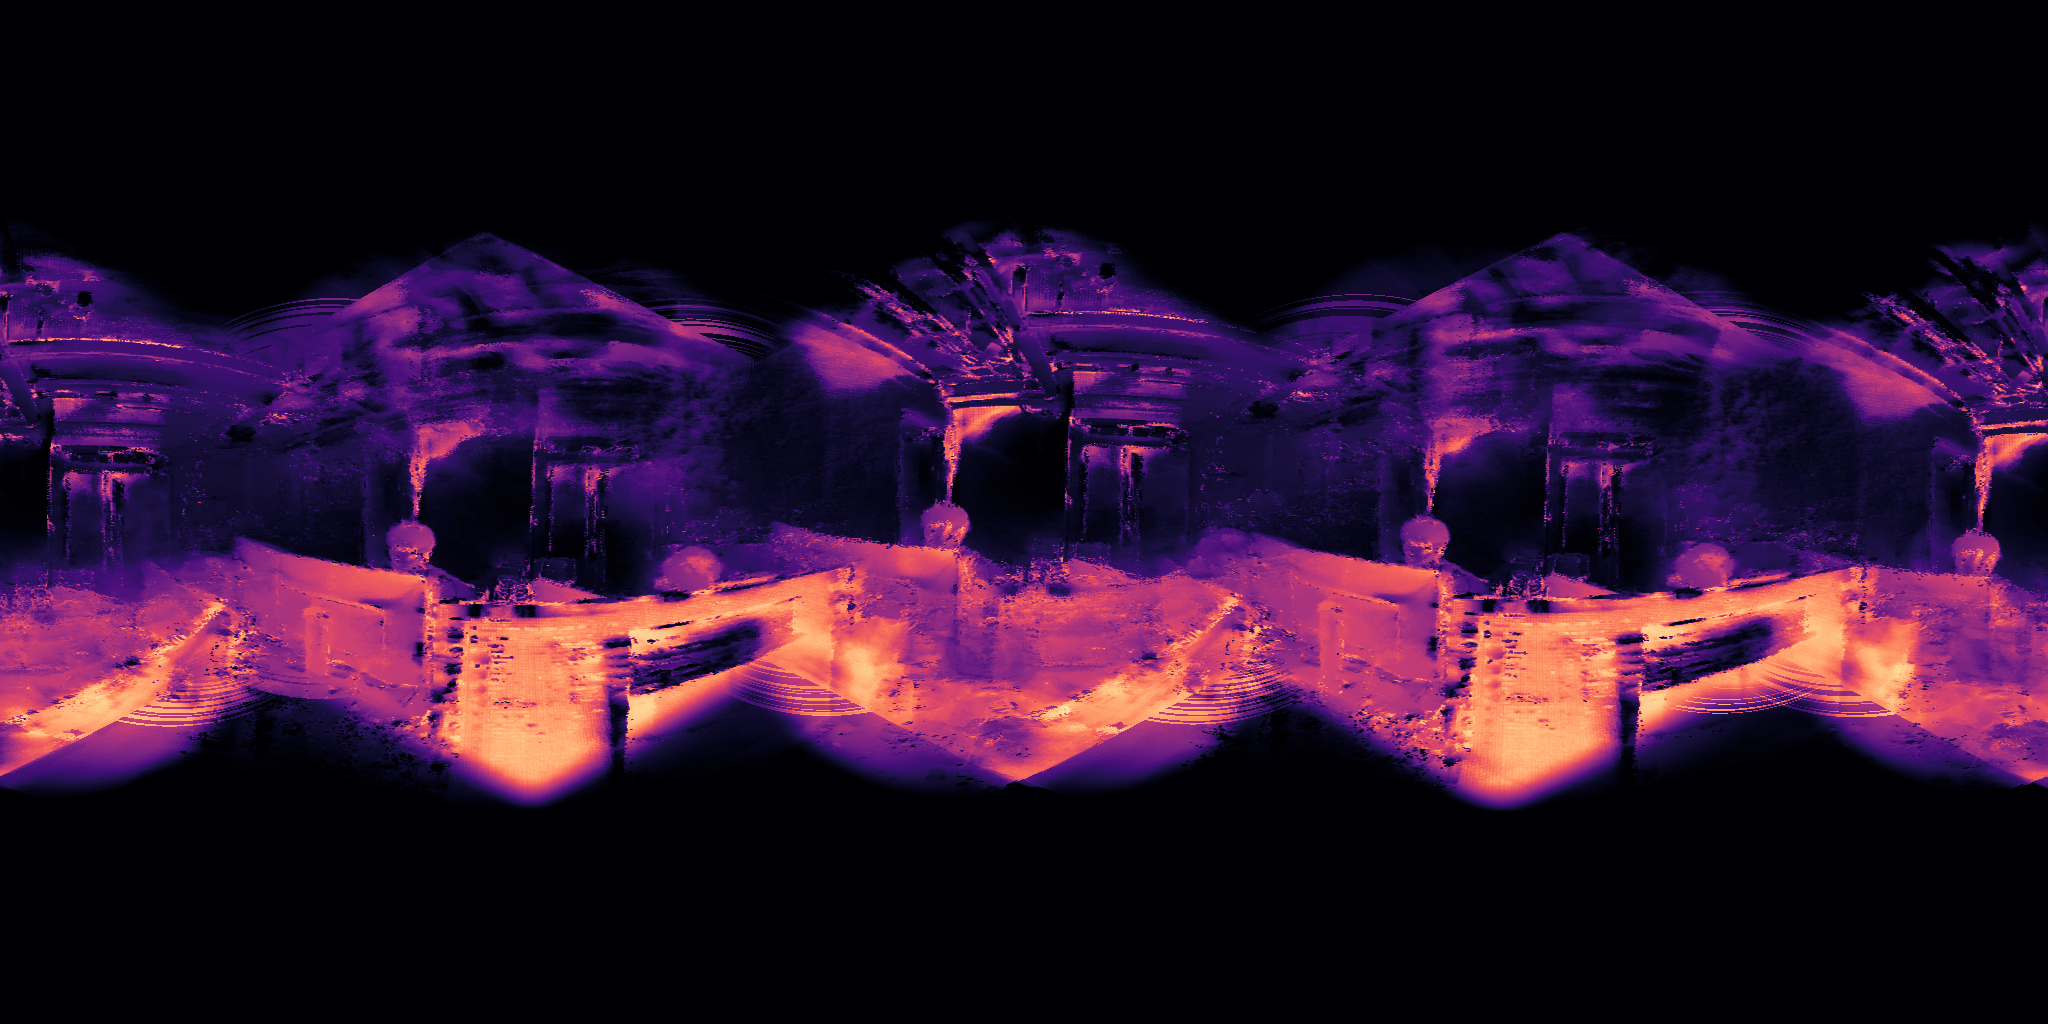
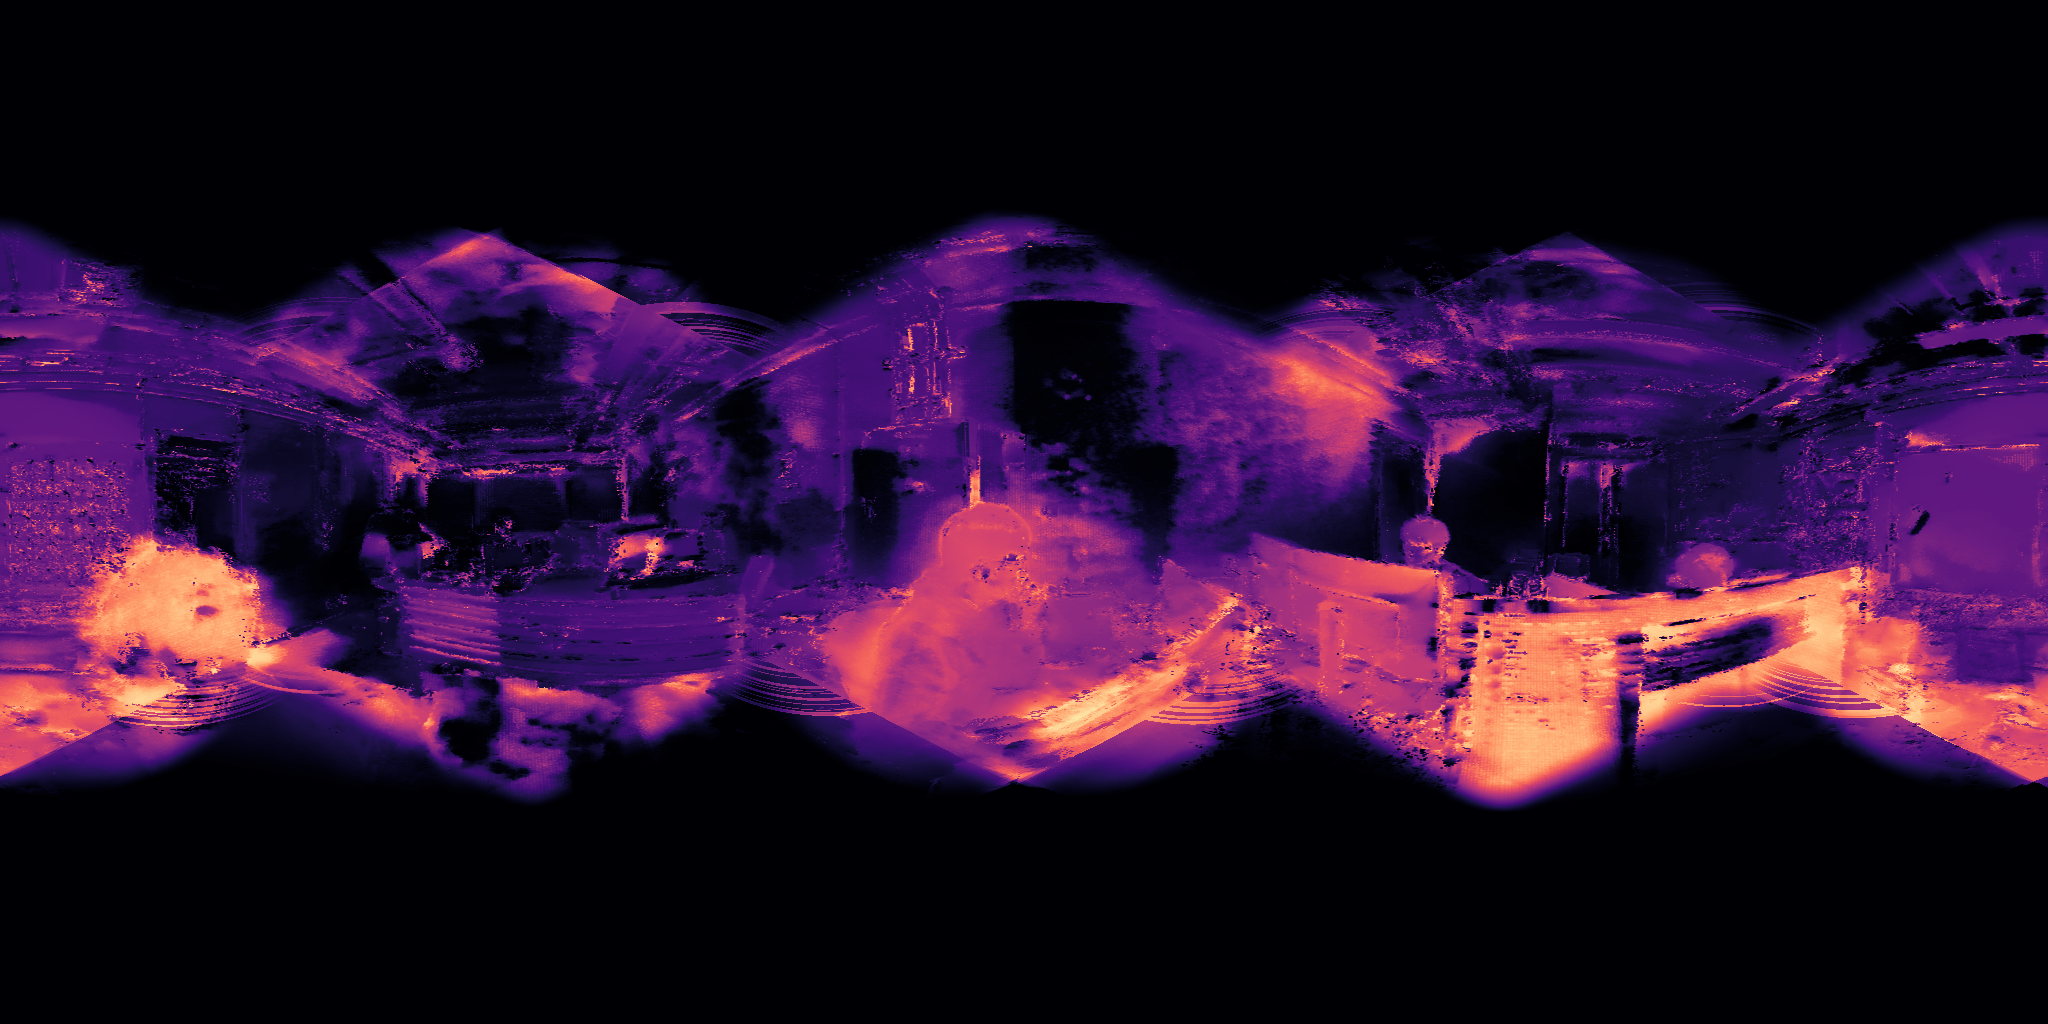
Update depth estimation logic: improve in-place modifications, enhance camera selection, and add debug outputs for distance maps

diff --git a/ros2_ws/src/my_stereo_pkg/src/core/depth_estimation.cpp b/ros2_ws/src/my_stereo_pkg/src/core/depth_estimation.cpp
@@ -133,7 +133,9 @@ std::pair<at::Tensor, at::Tensor> RGBDEstimator::unproject(
     point = (numerator / denominator2) * point;
     
     // point[..., 2] -= xi
-    point.index_put_({"...", 2}, point.index({"...", 2}) - xi);
+    // Use select to ensure correct in-place modification
+    auto point_z = point.select(-1, 2);
+    point_z.sub_(xi);
     
     // valid = (1 - (2*alpha - 1)*r2 >= 0)
     auto valid = (1.0f - two_alpha_minus_1 * r2 >= 0.0f).squeeze(-1);
@@ -244,14 +246,17 @@ void RGBDEstimator::select_camera(const std::vector<at::Tensor>& masks)
         // Initialize with invalid camera index (-1)
         auto selected_camera = -at::ones({1, rows, cols}, 
                                          at::TensorOptions().dtype(at::kInt).device(device_));
-        auto max_displacement = at::ones({1, rows, cols},
-                                         at::TensorOptions().dtype(at::kFloat).device(device_));
+        // Initialize max_displacement to -1.0 to ensure first valid result is selected
+        auto max_displacement = -at::ones({1, rows, cols},
+                                          at::TensorOptions().dtype(at::kFloat).device(device_));
         
         // Create pixel grid
+        // Python: meshgrid([v, u], indexing='ij') then stack([v, u])
+        // C++: meshgrid({v, u}, "ij") gives grid[0]=v, grid[1]=u, then stack({u, v})
         auto u = at::arange(0, cols, at::TensorOptions().dtype(at::kFloat).device(device_));
         auto v = at::arange(0, rows, at::TensorOptions().dtype(at::kFloat).device(device_));
-        auto grid = at::meshgrid({v, u}, "ij");
-        auto uv = at::stack({grid[1], grid[0]}, /*dim=*/-1).unsqueeze(0);  // [1, H, W, 2]
+        auto grid = at::meshgrid({v, u}, "ij");  // grid[0]=v (rows), grid[1]=u (cols)
+        auto uv = at::stack({grid[1], grid[0]}, /*dim=*/-1).unsqueeze(0);  // [1, H, W, 2] as (u, v)
         
         // Unproject to unit vectors
         auto unproject_result = unproject(uv.reshape({-1, 2}), reference_calibration);
@@ -271,9 +276,10 @@ void RGBDEstimator::select_camera(const std::vector<at::Tensor>& masks)
             auto rt = at::matmul(at::inverse(calibration.rt), reference_calibration.rt);
             
             // Convert to homogeneous coordinates and transform
+            // PyTorch matmul handles broadcasting: [1, H, W, 4] @ [4, 4] -> [1, H, W, 4]
             auto ones = at::ones_like(pt_near.index({"...", at::indexing::Slice(at::indexing::None, 1)}));
-            auto pt_near_homo = at::cat({pt_near, ones}, /*dim=*/-1);
-            auto pt_far_homo = at::cat({pt_far, ones}, /*dim=*/-1);
+            auto pt_near_homo = at::cat({pt_near, ones}, /*dim=*/-1);  // [1, H, W, 4]
+            auto pt_far_homo = at::cat({pt_far, ones}, /*dim=*/-1);    // [1, H, W, 4]
             
             pt_near_homo = at::matmul(pt_near_homo, rt.t());
             pt_far_homo = at::matmul(pt_far_homo, rt.t());
@@ -300,7 +306,8 @@ void RGBDEstimator::select_camera(const std::vector<at::Tensor>& masks)
             // Calculate displacement
             auto displacement = at::norm(uv_near - uv_far, 2, /*dim=*/-1);
             
-            // Normalize UV coordinates to [-1, 1] for grid_sample
+            // Normalize UV coordinates to [-1, 1] for grid_sample (align_corners=False)
+            // Python: ((uv + 0.5) / [cols, rows]) * 2 - 1
             auto resolution_tensor = at::tensor({static_cast<float>(cols), static_cast<float>(rows)},
                                                at::TensorOptions().dtype(at::kFloat).device(device_));
             uv_near = ((uv_near + 0.5f) / resolution_tensor) * 2.0f - 1.0f;
@@ -351,10 +358,12 @@ at::Tensor RGBDEstimator::estimate_fisheye_distance(
     int rows = matching_resolution_.second;
     
     // Create pixel grid and unproject to unit vectors
+    // Python: meshgrid([v, u], indexing='ij') then stack([v, u])
+    // C++: meshgrid({v, u}, "ij") gives grid[0]=v, grid[1]=u, then stack({u, v})
     auto u = at::arange(0, cols, at::TensorOptions().dtype(at::kFloat).device(device_));
     auto v = at::arange(0, rows, at::TensorOptions().dtype(at::kFloat).device(device_));
-    auto grid = at::meshgrid({v, u}, "ij");
-    auto uv = at::stack({grid[1], grid[0]}, /*dim=*/-1).unsqueeze(0);
+    auto grid = at::meshgrid({v, u}, "ij");  // grid[0]=v (rows), grid[1]=u (cols)
+    auto uv = at::stack({grid[1], grid[0]}, /*dim=*/-1).unsqueeze(0);  // [1, H, W, 2] as (u, v)
     
     auto unproject_result = unproject(uv.reshape({-1, 2}), reference_calibration);
     auto pt_unit = unproject_result.first.reshape({1, rows, cols, 3});
@@ -374,6 +383,7 @@ at::Tensor RGBDEstimator::estimate_fisheye_distance(
         // Transform points to matched camera coordinate system
         auto rt = at::matmul(at::inverse(calibration.rt), reference_calibration.rt);
         auto ones = at::ones_like(point_volume.index({"...", at::indexing::Slice(at::indexing::None, 1)}));
+        // PyTorch matmul handles broadcasting: [candidate_count, H, W, 4] @ [4, 4] -> [candidate_count, H, W, 4]
         auto point_volume_in_cam = at::matmul(
             at::cat({point_volume, ones}, /*dim=*/-1), rt.t());
         
@@ -383,7 +393,9 @@ at::Tensor RGBDEstimator::estimate_fisheye_distance(
             calibration);
         auto uv_proj = project_result.first.reshape({candidate_count_, rows, cols, 2});
         
-        // Normalize to [-1, 1] for grid_sample
+        // Normalize to [-1, 1] for grid_sample (align_corners=False)
+        // Python: ((uv + 0.5) / [cols, rows]) * 2 - 1
+        // This maps pixel [0, 0] center to [-1 + 1/res, -1 + 1/res]
         auto resolution_tensor = at::tensor({static_cast<float>(cols), static_cast<float>(rows)},
                                            at::TensorOptions().dtype(at::kFloat).device(device_));
         uv_proj = ((uv_proj + 0.5f) / resolution_tensor) * 2.0f - 1.0f;
@@ -488,9 +500,25 @@ std::pair<at::Tensor, at::Tensor> RGBDEstimator::run(
     std::vector<at::Tensor> distance_maps;
     distance_maps.reserve(references_indices_.size());
     
+    std::cout << "\n=== Estimating distance for each reference camera ===" << std::endl;
     for (size_t i = 0; i < references_indices_.size(); ++i) {
         int ref_idx = references_indices_[i];
         const auto& selected_camera = selected_cameras_[i];
+        
+        std::cout << "  Camera " << i << " (ref_idx=" << ref_idx << "):" << std::endl;
+        
+        // Verify calibration uniqueness
+        auto& calib = calibrations_[ref_idx];
+        std::cout << "    RT translation: [" 
+                  << calib.rt[0][3].item<float>() << ", "
+                  << calib.rt[1][3].item<float>() << ", "
+                  << calib.rt[2][3].item<float>() << "]" << std::endl;
+        
+        // Verify selected_camera map has valid selections
+        auto valid_selections = (selected_camera >= 0).sum().item<int>();
+        auto total_pixels = selected_camera.numel();
+        std::cout << "    Selected camera valid pixels: " << valid_selections 
+                  << " / " << total_pixels << std::endl;
         
         // Create YCbCr guide image
         // Matches Python: guide = rgb2yCbCr(images_to_match[reference_index]).type(torch.uint8)
@@ -506,7 +534,35 @@ std::pair<at::Tensor, at::Tensor> RGBDEstimator::run(
             images_to_match_permuted
         );
         
-        distance_maps.push_back(distance_map);
+        // CRITICAL: Ensure distance_map is independent by cloning
+        // This prevents all elements pointing to the same memory
+        auto distance_map_independent = distance_map.clone();
+        
+        // Debug output: verify distance map statistics
+        auto dist_mean = distance_map_independent.mean().item<float>();
+        auto dist_min = distance_map_independent.min().item<float>();
+        auto dist_max = distance_map_independent.max().item<float>();
+        std::cout << "    Distance map stats: mean=" << dist_mean 
+                  << ", min=" << dist_min 
+                  << ", max=" << dist_max << std::endl;
+        
+        distance_maps.push_back(distance_map_independent);
+    }
+    
+    // Verify distance_maps are unique
+    if (distance_maps.size() > 1) {
+        bool all_same = true;
+        for (size_t i = 1; i < distance_maps.size(); ++i) {
+            if (!at::equal(distance_maps[0], distance_maps[i])) {
+                all_same = false;
+                break;
+            }
+        }
+        if (all_same) {
+            std::cerr << "\n⚠  WARNING: All distance_maps are identical! Bug detected.\n" << std::endl;
+        } else {
+            std::cout << "\n✓ Distance maps are unique for each camera.\n" << std::endl;
+        }
     }
     
     // Prepare images for stitching: convert to uint8
